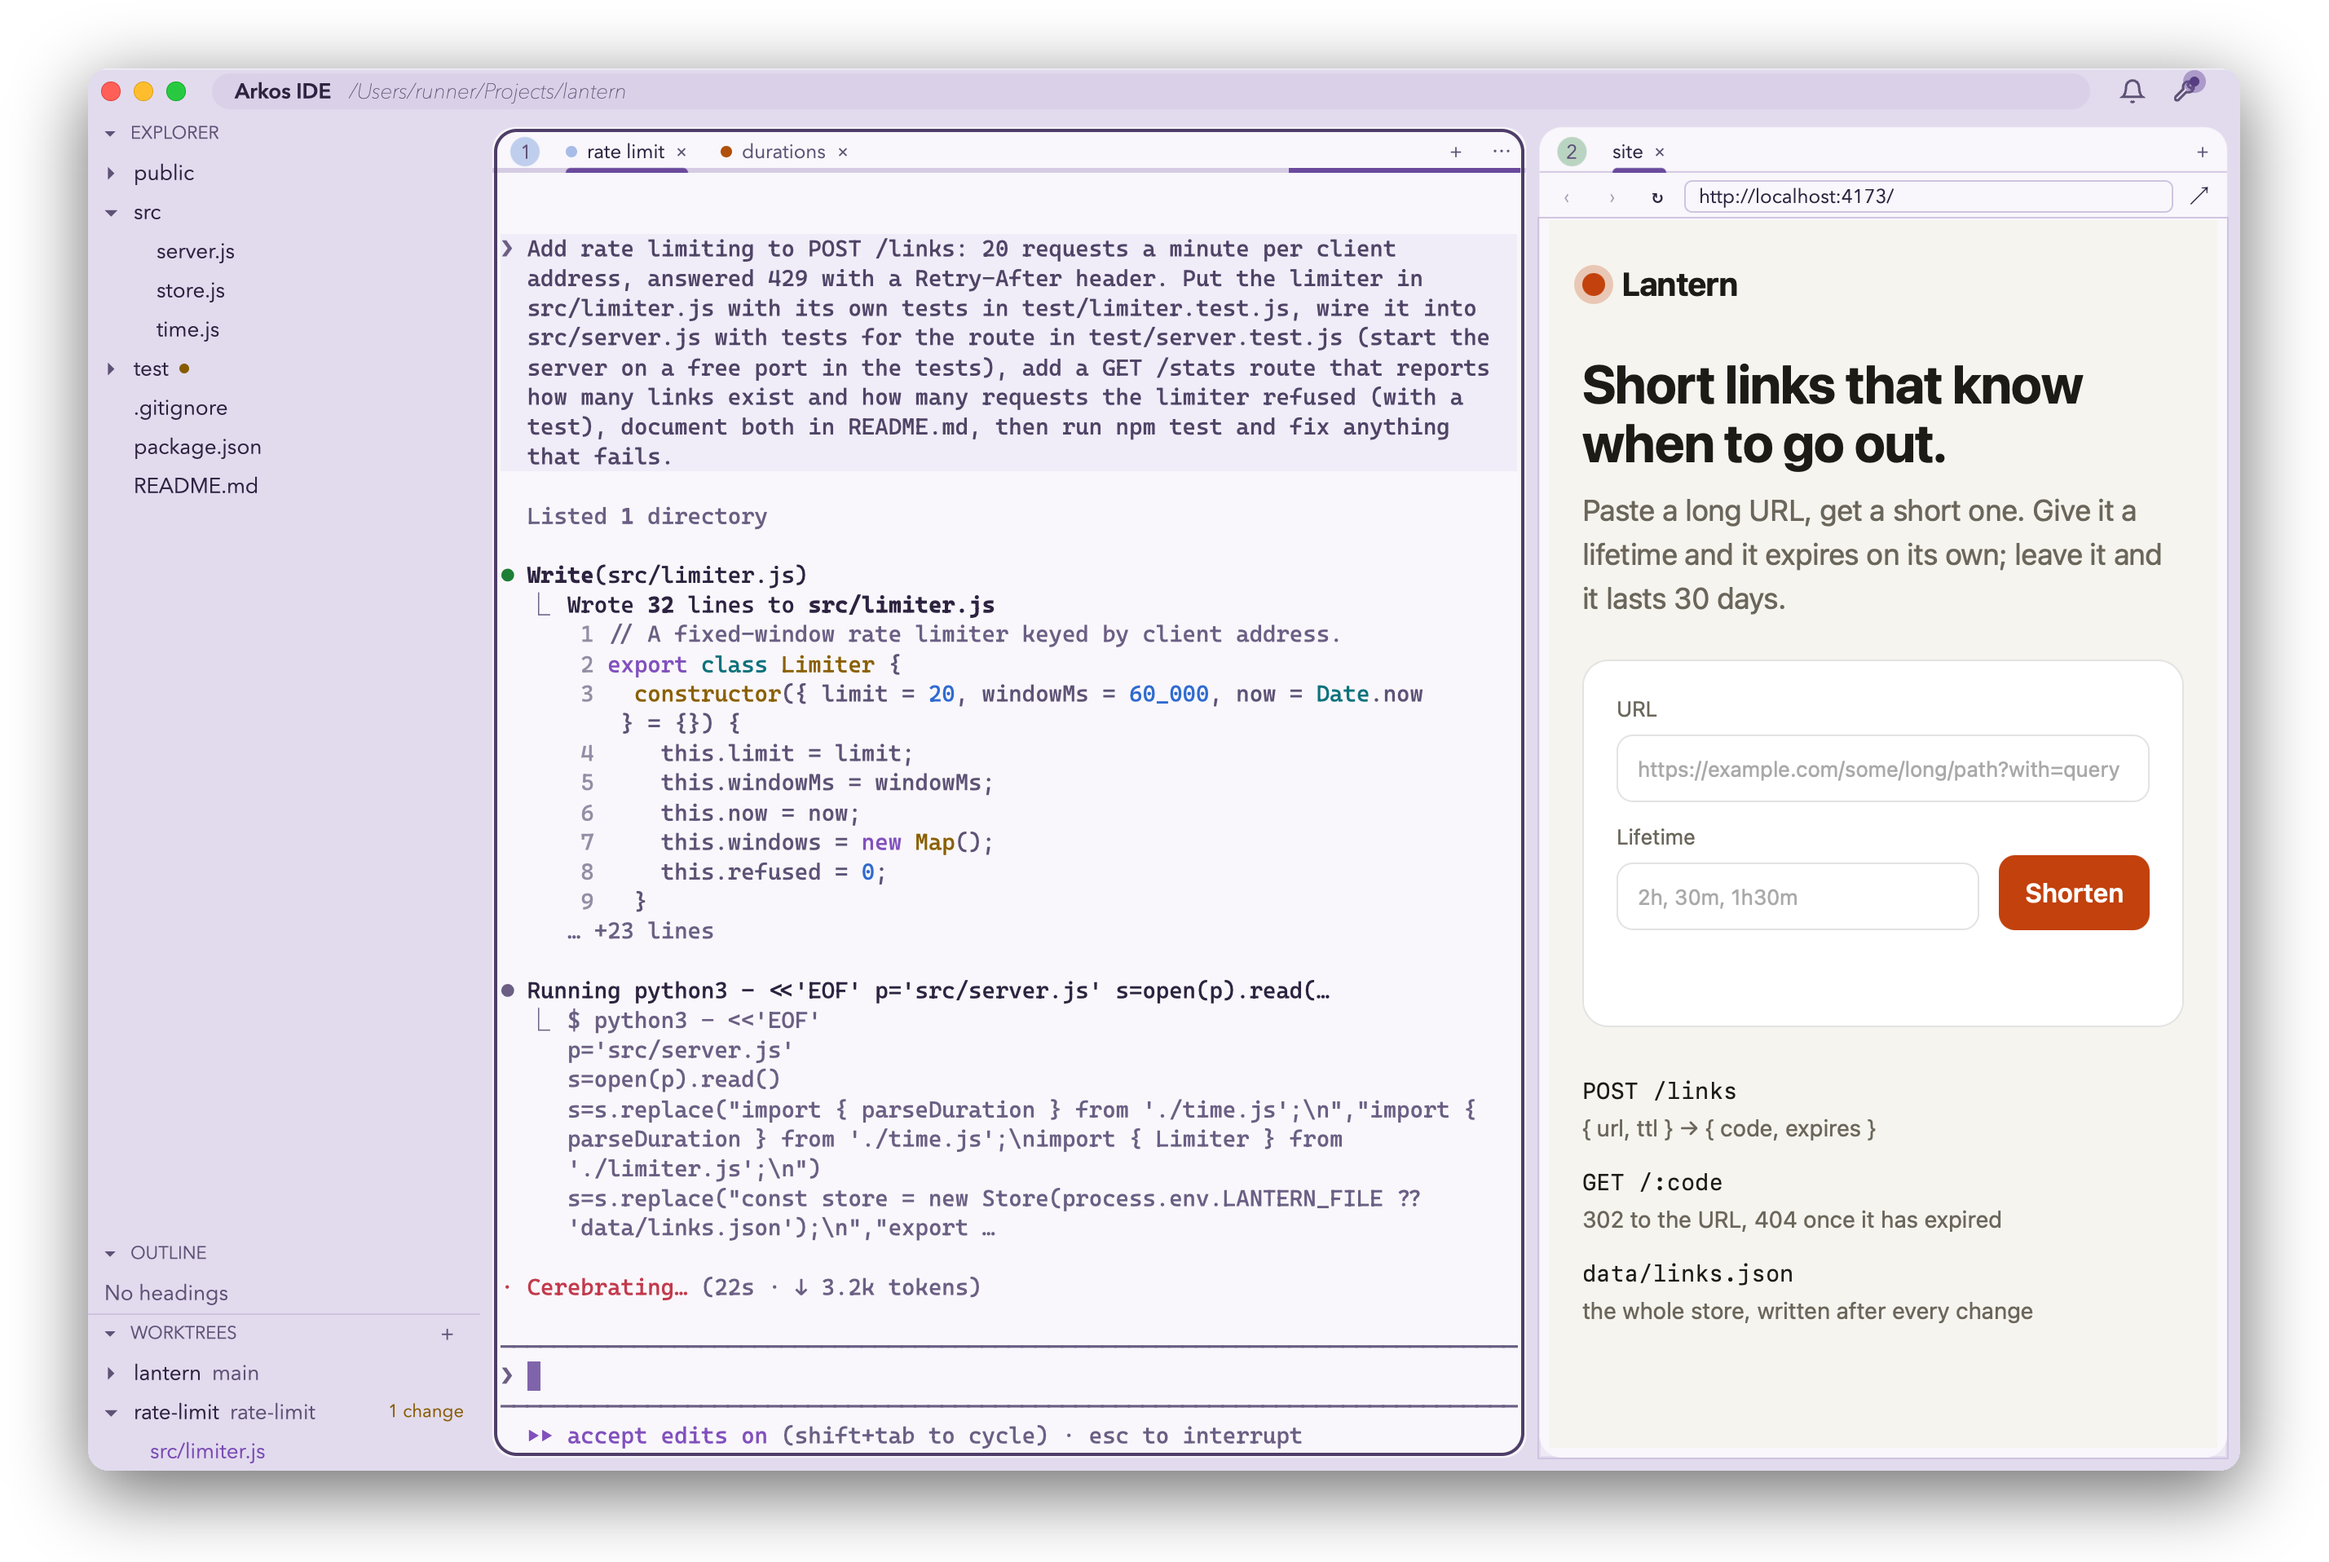
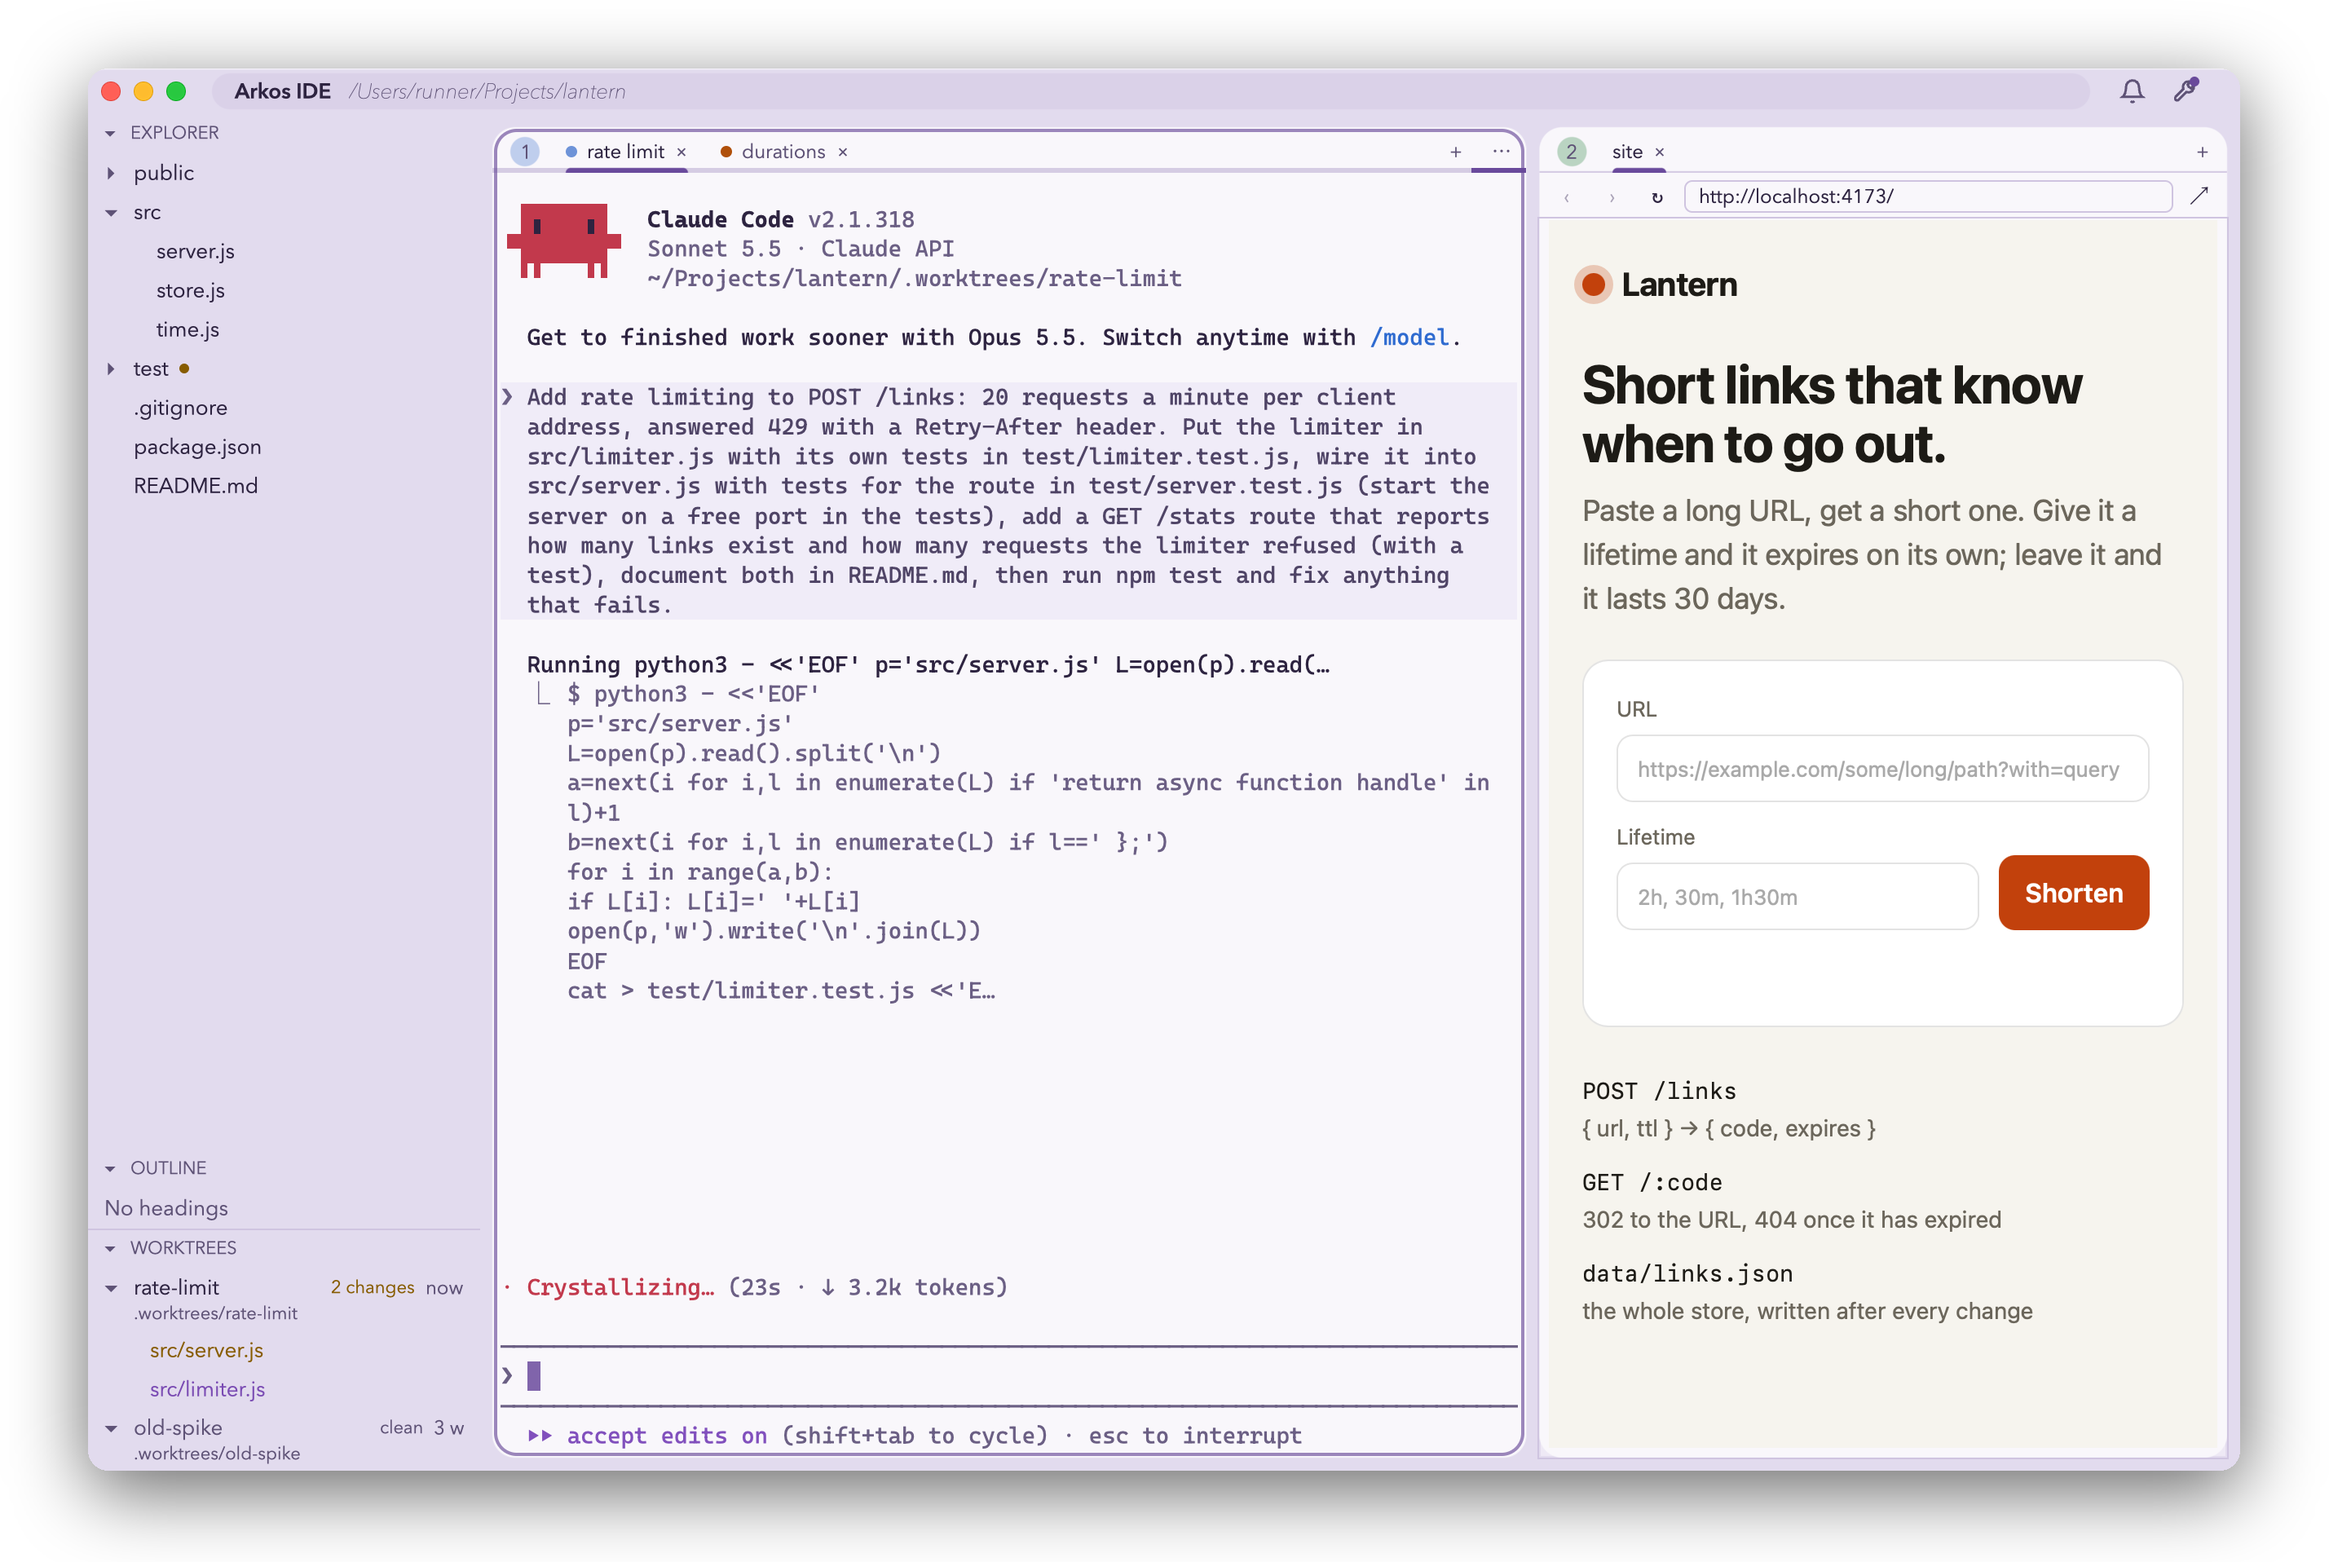
Pictures: the web developer with a stale worktree, and the Worktrees close-up
Retaken on the cloud shoot (run 41769314376): the Worktrees list shows
rate-limit with its changes, now, over old-spike, three weeks old and
dimmed. The close-up is cropped from that run's capture with the shoot's
own framing; the story's crop now fits the section with two changed
files. The heroes are recomposed with the new still.

diff --git a/README.md b/README.md
@@ -67,7 +67,7 @@ newest change first, each with how long since any of its files changed; a spike 
 three weeks reads dimmer.
 
 <picture>
-  <img alt="The Worktrees section of the sidebar in Lavender Material: rate-limit, changed now, over old-spike, untouched for three weeks and dimmed, each with its folder under .worktrees" src="docs/images/web-developer-dark-worktrees.png" width="380">
+  <img alt="The Worktrees section of the sidebar in Lavender Material: rate-limit, changed now, with its two changed files under it, over old-spike, clean and untouched for three weeks, dimmed, each with its folder under .worktrees" src="docs/images/web-developer-dark-worktrees.png" width="380">
 </picture>
 
 **The blogger** lives in markdown: a launch plan rendered in the editor, with its status table
